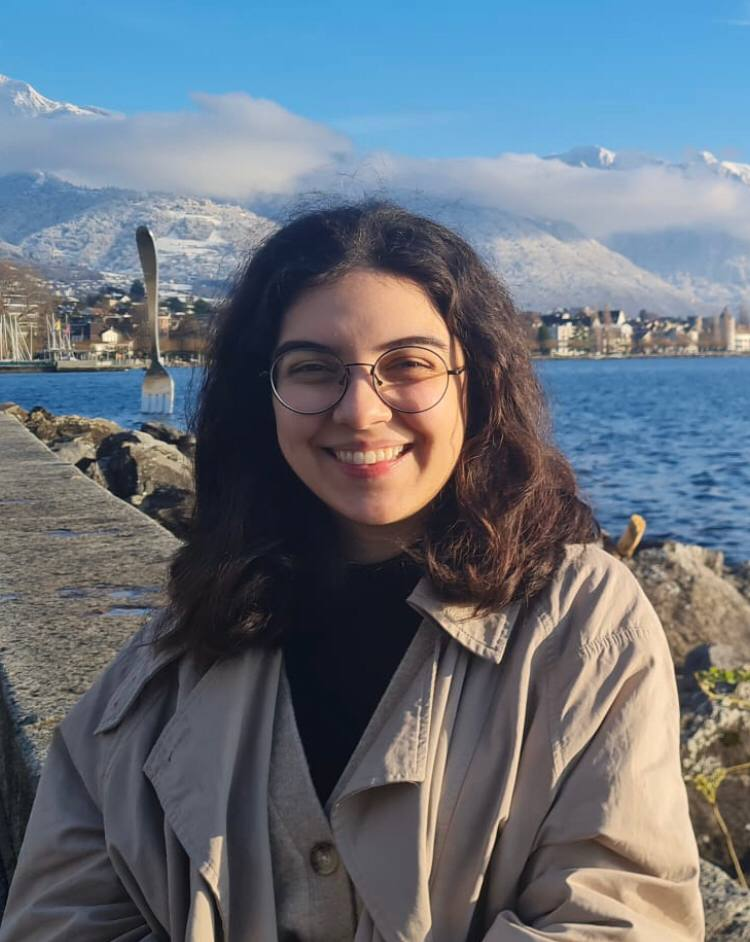
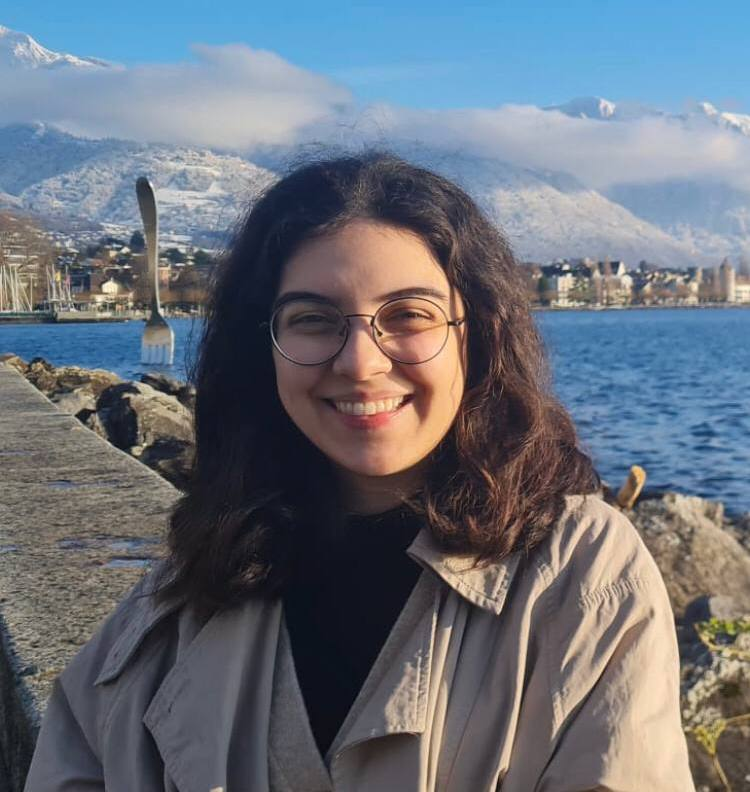
fix toques

diff --git a/website/src/Main.vue b/website/src/Main.vue
@@ -93,17 +93,17 @@
                     </div>
                     <div class="w-full flex flex-col h-full relative md:mt-10">
                         <img src="/toque.png" alt="toque"
-                            class="absolute -top-[37%] left-[10%] rotate-[0deg] w-[60%]  h-full object-contain lg:max-h-none z-[2]" />
+                            class="absolute -top-[34%] left-[8%] rotate-[0deg] w-[60%]  h-full object-contain lg:max-h-none z-[2]" />
                         <img src="/jamil.jpeg" alt="jamil"
-                            class="flex w-full drop-shadow-xl object-cover object-[50%_30%]  aspect-square mb-2" />
+                            class="flex w-full drop-shadow-xl object-contain aspect-square mb-2" />
                         <h5 class="font-semibold text-center">Jamil Maj</h5>
                         <h6 class="text-center italic">Master in Energy</h6>
                     </div>
                     <div class="w-full flex flex-col h-full relative md:mt-10">
                         <img src="/toque.png" alt="toque"
-                            class="absolute -top-[40%] left-[26%] rotate-[-30deg] w-[43%] -scale-x-100 h-full object-contain lg:max-h-none z-[2]" />
+                            class="absolute -top-[36%] left-[26%] rotate-[-30deg] w-[43%] -scale-x-100 h-full object-contain lg:max-h-none z-[2]" />
                         <img src="/mariella.jpeg" alt="mariella"
-                            class="flex w-full drop-shadow-xl object-cover aspect-square mb-2" />
+                            class="flex w-full drop-shadow-xl object-contain aspect-square mb-2" />
                         <h5 class="font-semibold text-center">Mariella Daghfal</h5>
                         <h6 class="text-center italic">Master in Digital Humanities</h6>
                     </div>
